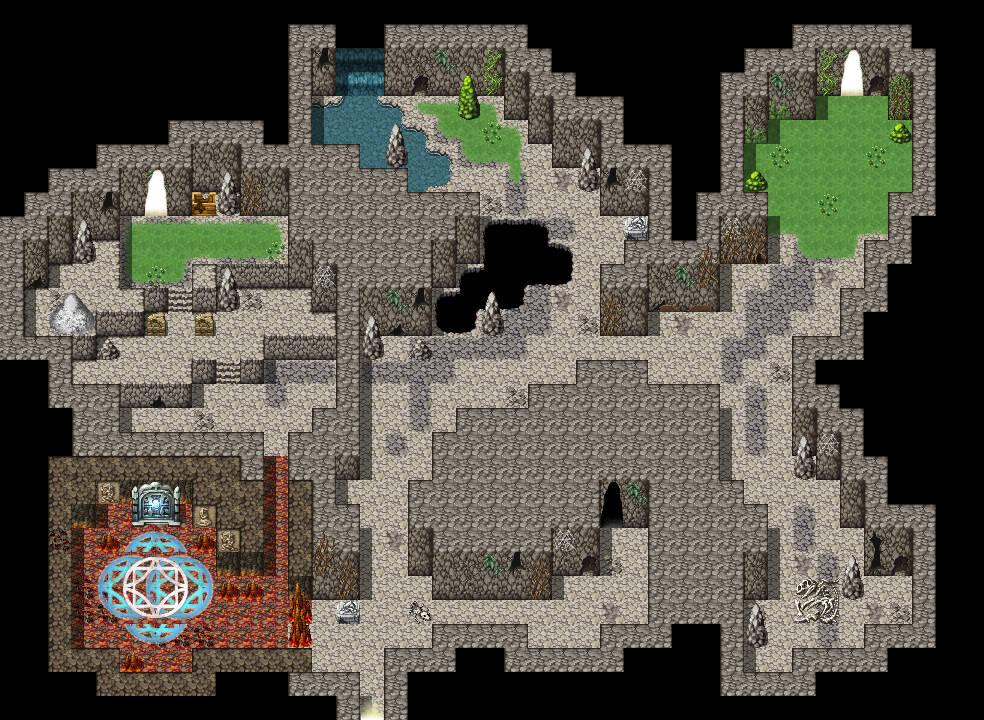
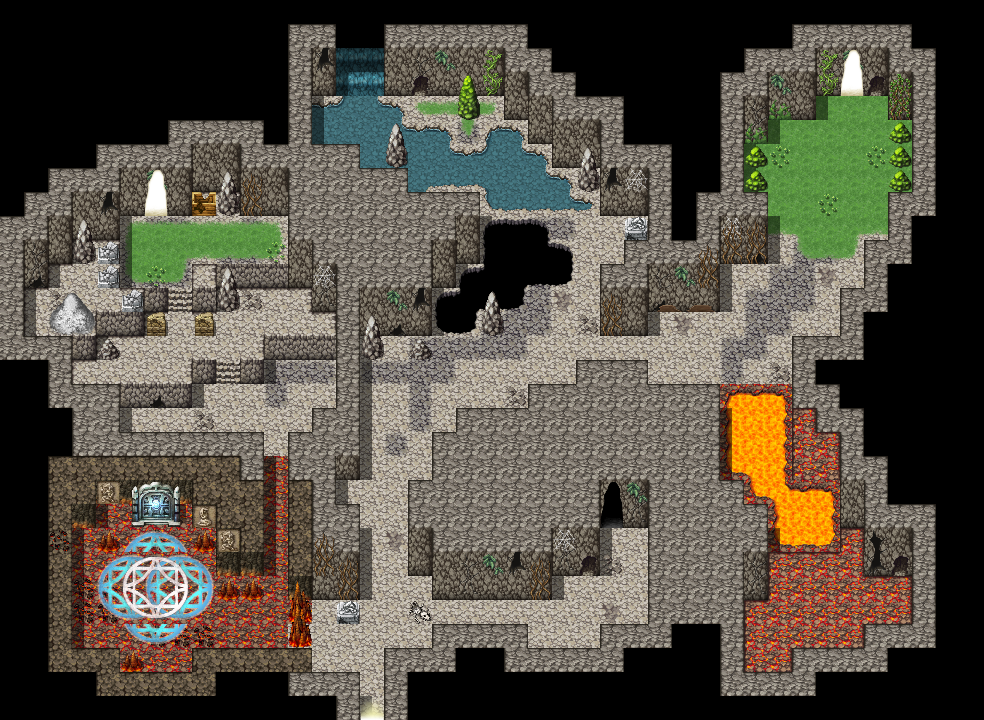
CUEVA UPDTAE 4.5
MEJORA DE CUEVA, BUG FIXES, CAMBIO DE CUEVA ETC ETC PUTO EL QUE LO LEA

diff --git a/Cave.java b/Cave.java
@@ -1,0 +1,43 @@
+import java.awt.Graphics;
+import java.awt.image.BufferedImage;
+import java.io.File;
+import javax.imageio.ImageIO;
+import java.io.IOException;
+
+public class Cave extends Map{
+	private BufferedImage img = null;
+	private Handler handler;
+	private Door toWoods;
+
+	public Cave(int x, int y, Handler handler){
+		super(x, y);
+		this.handler = handler;
+		setID(ID.Map);
+		setUrl("MapImages/Map008.png");
+	}
+
+	public boolean limitMap(){
+		if((x<-581 && x>-645 && y<-1616) ||(x>-599 && y>-1640 && y<-1487)||(x>-475 && x<-377 && y>-1507 && y<-1263) ||(x<-512 && x>-596 && y>-1370 && y<-1292) ||(x<-443 && x>-542 && y>-1304 && y<-785)||(x>-599 && x<-377 && y<-1040 && y>-1304) ||(x>-540 && x<-377 && y>-1040 && y<-986)||(x<-443 &&x>-602 && y>-986 && y<-860 ) ||(x<-506 && x>-605 && y>-986) ||(x<-590 && x>-650 && y>-668)||(x<-707 && x>-791 && y>-668) ||(x<-610 &&  x>-737 && y>-602) ||(y>-602 && y<-281 && x<-764 && x>-983) ||(x<-950 && x>-1030 && y>-533 && y<-281) ||(x<-1028 && x>-1154 && y>-467 && y<-340)||(x>-1100 && x<-908 && y>-341 && y<-281)){
+			return true;
+		}
+		else{
+			return false;
+		}
+		
+	}
+
+    public void render(Graphics g){
+		try {
+  			  img = ImageIO.read(new File(url));
+		} 
+		catch (IOException e) {
+		}
+		g.drawImage(img, x, y, 2624, 1920, null);
+	}
+	public void setDoorsAndNpc(){
+
+	}
+
+
+
+}

diff --git a/Main.java b/Main.java
@@ -16,10 +16,12 @@ public class Main extends Canvas implements Runnable{
 		this.addKeyListener(new KeyInput(handler));
 
 		new GameWindow(width, height, "Don Chuy's Legendary Taco", this);
-
-		Town town = new Town(-260, -160, handler);
+		Cave cave = new Cave (-614, -1520, handler);
+		cave.setDoorsAndNpc();
+		handler.addObjectFirst(cave);
+		/*Town town = new Town(-260, -160, handler);
 		town.setDoorsAndNpc();
-		handler.addObjectFirst(town);
+		handler.addObjectFirst(town);*/
 		handler.addObject(new Player(width/2-48, height/2-48, 192, 192));
 		handler.addObject(new Dialogue("Press enter to skip this Dialogue"));
 		handler.addObject(new Inventory());

diff --git a/Map.java b/Map.java
@@ -22,7 +22,7 @@ public abstract class Map extends GameObject{
 		x -= velx;
 		y -= vely;
 		}
-		//System.out.println(x+ " " +y);
+		System.out.println(x+ " " +y);
 		
 	}
 
